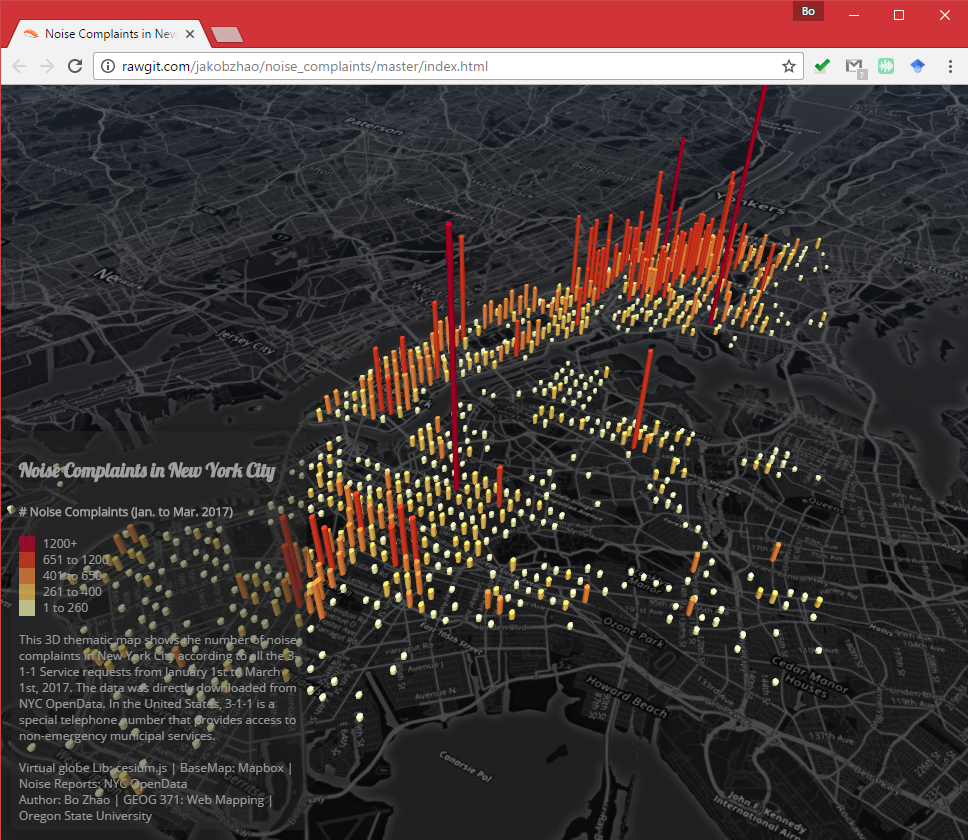
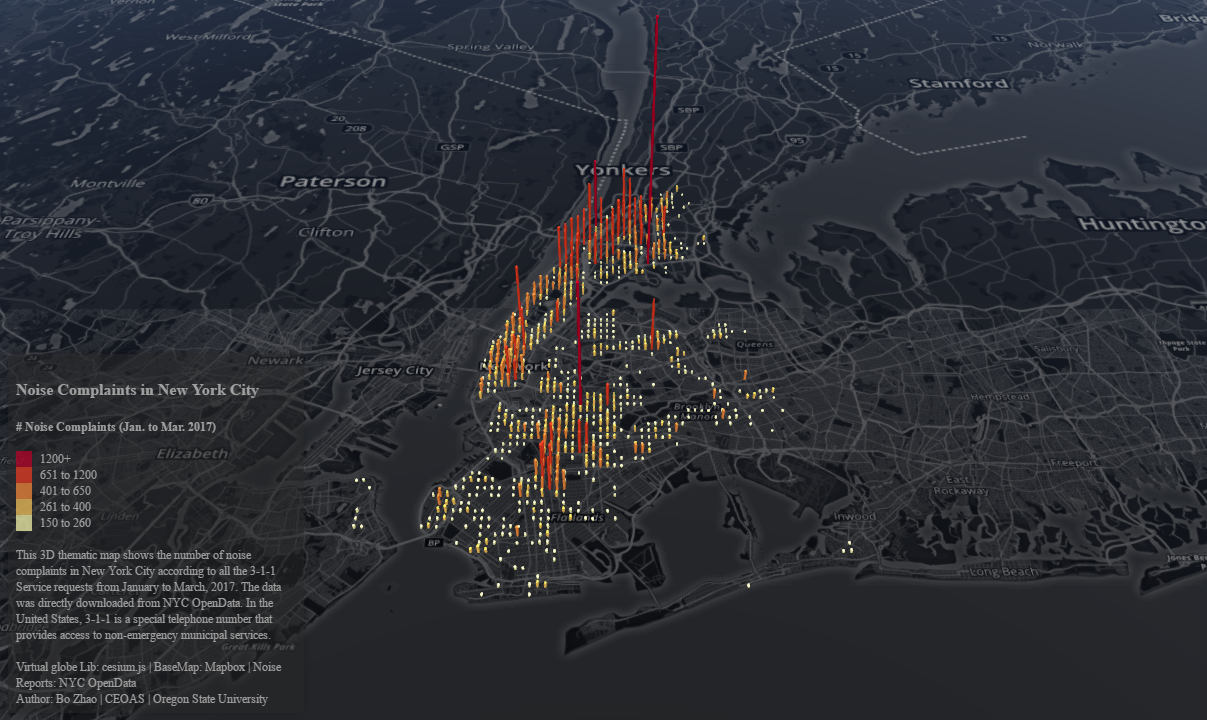
Add files via upload

diff --git a/wk03/wk03_1_lec05/index.html b/wk03/wk03_1_lec05/index.html
@@ -5,7 +5,6 @@
     <meta http-equiv="X-UA-Compatible" content="IE=edge">
     <meta name="viewport" content="width=device-width, initial-scale=1, maximum-scale=1, minimum-scale=1, user-scalable=no">
     <link rel="stylesheet" href="http://cesiumjs.org/releases/1.31/Build/Cesium/Widgets/widgets.css">
-    <link href="https://fonts.googleapis.com/css?family=Lobster|Open+Sans" rel="stylesheet">
     <link rel="stylesheet" href="css/style.css">
     <script src="http://cesiumjs.org/releases/1.31/Build/Cesium/Cesium.js"></script>
     <title> Noise Complaints in New York City (Jan. to Mar. 2017)</title>
@@ -22,7 +21,7 @@
     <i style="background: #ffffb2"></i> <p> 150 to 260 </p><br/>
     <p> This 3D thematic map shows the number of noise complaints in New York City according to all the 3-1-1 Service requests from January to March, 2017. The data was directly downloaded from <a href="https://data.cityofnewyork.us/Social-Services/Noise-complaints-since-20151101-w-Unspecified-CB/vjav-8yz5">NYC OpenData</a>. In the United States, 3-1-1 is a special telephone number that provides access to non-emergency municipal services.</p><br/>
     <p> Virtual globe Lib: cesium.js | BaseMap: Mapbox | Noise Reports: NYC OpenData </p>
-    <p> Author: <a href="http://ceoas.oregonstate.edu/profile/zhao/">Bo Zhao </a>| GEOG 371: Web Mapping | Oregon State University</p>
+    <p> Author: <a href="http://ceoas.oregonstate.edu/profile/zhao/" target="_blank">Bo Zhao </a> | CEOAS | Oregon State University</p>
 </div>
 <script >
 

diff --git a/wk03/wk03_1_lec05/css/style.css b/wk03/wk03_1_lec05/css/style.css
@@ -10,7 +10,6 @@ html, body, #cesiumContainer {
     left: 10px;
     bottom: 10px;
     color: #a0a0a0;
-    font-family: 'Open Sans', sans-serif;
     padding: 6px 8px;
     background: #000000;
     background: rgba(38, 38, 38, 0.5);
@@ -18,10 +17,6 @@ html, body, #cesiumContainer {
     border-radius: 5px;
 }
 
-h4 {
-    font-family:  Lobster, cursive;
-    font-size: larger;
-}
 
 .legend i {
     width: 16px;

diff --git a/wk03/wk03_1_lec05/readme.md b/wk03/wk03_1_lec05/readme.md
@@ -9,6 +9,7 @@
 - Get to know the basics of 3D visualization on the Web; 
 - Make the virtual globe library Cesium.js; 
 - Overlay different map service providers and geojson data.
+- Make a 3D thematic map.
 
 ## 1. WebGL
 
@@ -98,7 +99,7 @@ A number of open 3D geospatial formats have grown out of Cesium. Open formats cr
 
 cesium.js is dedicated to make virtual globes. [TerriaJS](http://terria.io/) is an robust open-source geospatial platform built on cesium.js. It provides us with handy tools for navigating, editing and managing geospatial data. If you are interested in using cesium.js for an integrated web mapping application, I would highly recommend writing the codes of [TerriaJS](http://terria.io/) at GitHub. In this lecture, we will make a 3D thematic map using cesium.js. 
 
-In New York City, the local government maintains an open data portal to share a lot of datasets about the city management and administration. Among all the datasets, the 3-1-1 Calls on noise complaints are openly accessible. Since each complaint record comes with locational information, it is possible to visualize them collectively on a web map. In this practical exercise, we will make a 3D bar map to visualize the concentrations of noise complaints in the city. The final web map, as shown below, can be viewed at [http://rawgit.com/jakobzhao/noise_complaints/master/index.html](http://rawgit.com/jakobzhao/noise_complaints/master/index.html).
+In New York City, the local government maintains an open data portal to share a lot of datasets about the city management and administration. Among all the datasets, the 3-1-1 Calls on noise complaints are openly accessible. Since each complaint record comes with locational information, it is possible to visualize them collectively on a web map. In this practical exercise, we will make a 3D bar map to visualize the concentrations of noise complaints in the city. The final web map, as shown below, can be viewed at [`http://rawgit.com/jakobzhao/GeovisualAnalytics/tree/master/wk03/wk03_1_lec05/master/index.html`](http://rawgit.com/jakobzhao/GeovisualAnalytics/tree/master/wk03/wk03_1_lec05/master/index.html).
 
 ![](img/finalmap.png)
 
@@ -107,8 +108,6 @@ In the map, each bar indicates a number of noise complaint cases from the region
 - Select cesium.js as the map client library;
 - Use the dark theme map from MapBox as the basemap; and 
 - Import the georeferenced bars in geojson data format and visualize them.
-
-### 3.1 Preparation
 
 Throughout the term, you have frequently used GitHub as a vehicle to sync geospatial data, work in teams, update a web site, and publish web mappings. In this lecture, we will synchronize the GitHub repository of course material to your local working space. To do that, you would use the following commands:
 
@@ -120,10 +119,10 @@ $git pullPowerShell
 
 ![](img/repository.png)
 
-The repository is located at [https://github.com/jakobzhao/noise_complaints](https://github.com/jakobzhao/noise_complaints), just click "Clone or download" button to download the package, and then extract all the files to the working directory on your local computer. The file structure of this repository looks like the file tree below:
+The directory is located at [`https://github.com/jakobzhao/GeovisualAnalytics/tree/master/wk03/wk03_1_lec05`](https://github.com/jakobzhao/GeovisualAnalytics/tree/master/wk03/wk03_1_lec05), The file structure of this directory looks like the file tree below:
 
-```powershell
-noise_complaints
+```PowerShell
+wk03_1_lec05
 ├─assets
 ├  ├─── nyc_noise.geojson
 ├─css
@@ -135,15 +134,15 @@ noise_complaints
 ├─LICENSE
 ```
 
-After downloading the files to an appropriate place, you will need to setup a web server. To do that, you can use the **Webstorm** or a python server by executing the following codes under the working directory:
+After downloading the files to an appropriate working place, you will need to setup a web server. To do that, you can use the **Webstorm** or a python server by executing the following codes under the working directory:
 
 ```powershell
 $python -m SimpleHTTPServer
 ```
 
-## 2\. HTML template
+###  3.2 HTML template
 
-Above all, we will create an html page and include the necessary libraries. As shown, within the `body` div, we place two div elements - one for anchoring the virtual globe container and one for anchoring the legend. In addition, the style sheet locates at `css/style.css`. In order to make the application more light-weight, we use external links to include cesium libraries from [http://cesiumjs.org/releases/1.31/Build/Cesium/Cesium.js](http://cesiumjs.org/releases/1.31/Build/Cesium/Cesium.js) and [http://cesiumjs.org/releases/1.31/Build/Cesium/Widgets/widgets.css](http://cesiumjs.org/releases/1.31/Build/Cesium/Widgets/widgets.css).
+Above all, we will create an html page and include the necessary libraries. As shown, within the `body` div, we place two div elements - one for anchoring the virtual globe container and one for anchoring the legend. In addition, the style sheet locates at `css/style.css`. In order to make the local directory of the application more light-weight, we use external links to include cesium libraries from [http://cesiumjs.org/releases/1.31/Build/Cesium/Cesium.js](http://cesiumjs.org/releases/1.31/Build/Cesium/Cesium.js) and [http://cesiumjs.org/releases/1.31/Build/Cesium/Widgets/widgets.css](http://cesiumjs.org/releases/1.31/Build/Cesium/Widgets/widgets.css).
 
 ```html
 <!DOCTYPE html>
@@ -154,8 +153,8 @@ Above all, we will create an html page and include the necessary libraries. As s
     <meta name="viewport" content="width=device-width, initial-scale=1, maximum-scale=1, minimum-scale=1, user-scalable=no">
     <link rel="stylesheet" href="http://cesiumjs.org/releases/1.31/Build/Cesium/Widgets/widgets.css">
     <link rel="stylesheet" href="css/style.css">
-  	<script src="http://cesiumjs.org/releases/1.31/Build/Cesium/Cesium.js"></script>
-  	<title> Cell Towers in Oregon by County </title>
+    <script src="http://cesiumjs.org/releases/1.31/Build/Cesium/Cesium.js"></script>
+    <title> Noise Complaints in New York City (Jan. to Mar. 2017)</title>
 </head>
 <div id="cesiumContainer"></div>
 <div class="legend"></div>
@@ -194,7 +193,9 @@ var viewer = new Cesium.Viewer('cesiumContainer', {
 });
 ```
 
-## 3\. Loading GeoJson data
+> **Note:** Here are several MapBox imagery provider we can use, such as `mapbox.light`, `maobox.sattelite`, `mapbox.outdoor`, `mapbox.streets`.  Try them out!
+
+### 3.3 Loading GeoJson data
 
 Then we will load the geojson data and add it to the viewer object. After the data is added, we need to move the viewer by the `zoomTo` function.
 
@@ -212,7 +213,7 @@ var dataSource = Cesium.GeoJsonDataSource.load('assets/nyc_noise.geojson').then(
 Here, the file **nyc_noise.geojson** contains a set of polygons (circles). Each polygon contains two properties - `id` and `cnt`.
 
 - `id` is a unique identification number; and
-- `cnt` indicates the number of noise complaints that came from that region. Please try to validate the geojson data from [geojson.io](file:///C:/Users/Andy/Downloads/geojson.io)
+- `cnt` indicates the number of noise complaints that came from that region. **Please try to validate the geojson data from [geojson.io](file:///C:/Users/Andy/Downloads/geojson.io).**
 
 ![](img/geojsonio.png)
 
@@ -294,12 +295,12 @@ Then, we can easily update the material parameter of each entity using the `setC
 p[i].polygon.material = Cesium.Color.fromCssColorString(setColor(p[i].properties.cnt));
 ```
 
-## 4\. Panel of Description and Legend
+### 3.4 Description and Legend Panel
 
-Now, a 3D thematic map is made! In order to help users to read this map, we will add a legend and some descriptions. The approach to adding a legend has been already introduced in the map client series and
-practiced in PE 3. In general, we will put the content in a `div` and then capture the div using the class name, and style it by css stylesheet. Here, the class of the legend div is `legend`, as shown below.
+Now, a 3D thematic map is made! In order to help users to read this map, we will add a legend and some descriptions. In general, we will put the content in a `div` and then capture the div using the class name, and style it by css stylesheet. Here, the class of the legend div is `legend`, as shown below.
 
 ```html
+<h4> Noise Complaints in New York City </h4>
 <p><b> # Noise Complaints (Jan. to Mar. 2017) </b></p><br/>
 <i style="background: #bd0026"></i> <p> 1200+ </p>
 <i style="background: #f03b20"></i> <p> 651 to 1200 </p>
@@ -319,7 +320,6 @@ And the stylesheet is.
     left: 10px;
     bottom: 10px;
     color: #a0a0a0;
-    font-family: 'Open Sans', sans-serif;
     padding: 6px 8px;
     background: #000000;
     background: rgba(38, 38, 38, 0.5);
@@ -327,10 +327,6 @@ And the stylesheet is.
     border-radius: 5px;
 }
 
-h4 {
-    font-family:  Lobster, cursive;
-    font-size: larger;
-}
 
 .legend i {
     width: 16px;
@@ -368,7 +364,7 @@ In addition to the legend, you can add on more descriptive information about thi
     <i style="background: #ffffb2"></i> <p> 150 to 260 </p><br/>
     <p> This 3D thematic map shows the number of noise complaints in New York City according to all the 3-1-1 Service requests from January to March, 2017. The data was directly downloaded from <a href="https://data.cityofnewyork.us/Social-Services/Noise-complaints-since-20151101-w-Unspecified-CB/vjav-8yz5">NYC OpenData</a>. In the United States, 3-1-1 is a special telephone number that provides access to non-emergency municipal services.</p><br/>
     <p> Virtual globe Lib: cesium.js | BaseMap: Mapbox | Noise Reports: NYC OpenData </p>
-    <p> Author: <a href="http://ceoas.oregonstate.edu/profile/zhao/">Bo Zhao </a>| GEOG 371: Web Mapping | Oregon State University</p>
+    <p> Author: <a href="http://ceoas.oregonstate.edu/profile/zhao/" target="_blank">Bo Zhao </a> | CEOAS | Oregon State University</p>
 </div>
 ```
 
@@ -378,16 +374,9 @@ If everything works smoothly, you will see a 3D web map like this. Well done!
 
 ![](img/finalmap.png)
 
-## 5\. Deliverable
+## 4\. Summary
 
-Regarding the deliverables of this PE, you will need to:
-
-- Switch to another basemap instead of the current mapbox dark basemap. (**10 POINTS**)
-- Change the color ramp of the entities. (**15 POINTS**)
-- An updated version of the credits. ***Remember, only credit your portion of the work.*** (**10 POINTS**)
-- From an application perspective, what scenario do you think is more appropriate to use a 2D web map (e.g., leaflet), and what scenario is more appropriate to use a 3D virtual globe (e.g., cesium)? Please answer this question with some specific cases. For example, you can find some web mapping applications, and compare why they selected a 2D or 3D layout.  (**15 POINTS**)
-
-Please package up the working directory of codes and the answer in a word document. The package should be in a zip file. On the assignment tab of **Canvas Dropbox**, check the item of this PE, press the `Submit Assignment` button to submit your PE report. Please contact the instructor or TA if you have any difficulty.
+This lecture introduces the current developments in web based visualization. A hand-out practice to make a 3D geovisualization is described step by step using cesium.js. The practice allows you to make a 3D thematic map to illustrate the noise complaints in New York City. If you are interested in making 3D thematic maps on the web, I would encourage you explore cesium.js and other javascript libraries which support WebGL.
 
 ## References
 
@@ -395,16 +384,8 @@ Please package up the working directory of codes and the answer in a word docume
 
 [2]. http://cesiumjs.org/releases/b30/Build/Documentation/Color.html
 
-[3]. http://rawgit.com/jakobzhao/noise_complaints/master/index.html
+[3]. [http://cesiumjs.org/tutorials/Imagery-Layers-Tutorial/](http://cesiumjs.org/tutorials/Imagery-Layers-Tutorial/)
 
-[1]. [http://cesiumjs.org/tutorials/Imagery-Layers-Tutorial/](http://cesiumjs.org/tutorials/Imagery-Layers-Tutorial/)
+[4]. [http://cesiumjs.org/tutorials/cesium-up-and-running/](http://cesiumjs.org/tutorials/cesium-up-and-running/)
 
-[2]. [http://cesiumjs.org/tutorials/cesium-up-and-running/](http://cesiumjs.org/tutorials/cesium-up-and-running/)
-
-## references:
-
-[1] [http://blog.mastermaps.com/2013/09/creating-webgl-earth-with-threejs.html](http://blog.mastermaps.com/2013/09/creating-webgl-earth-with-threejs.html)
-
-[2] [http://wiki.splashdamage.com/index.php/Specular_Maps](http://wiki.splashdamage.com/index.php/Specular_Maps)
-
-[3] [https://en.wikipedia.org/wiki/WebGL](https://en.wikipedia.org/wiki/WebGL)
+[5]. [https://en.wikipedia.org/wiki/WebGL](https://en.wikipedia.org/wiki/WebGL)
